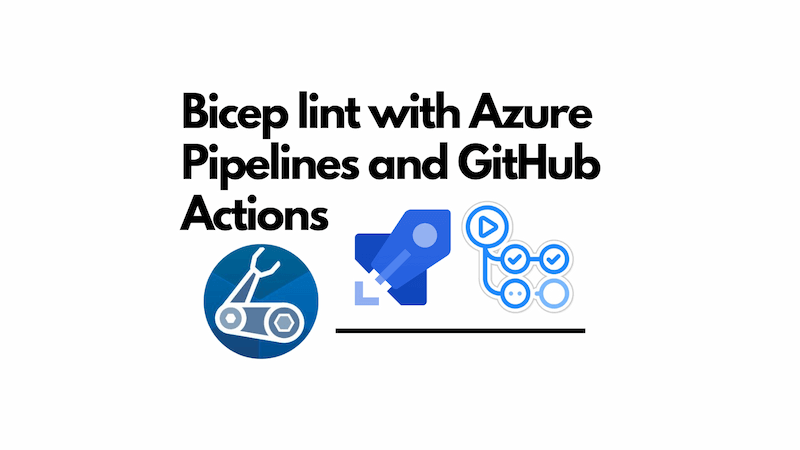
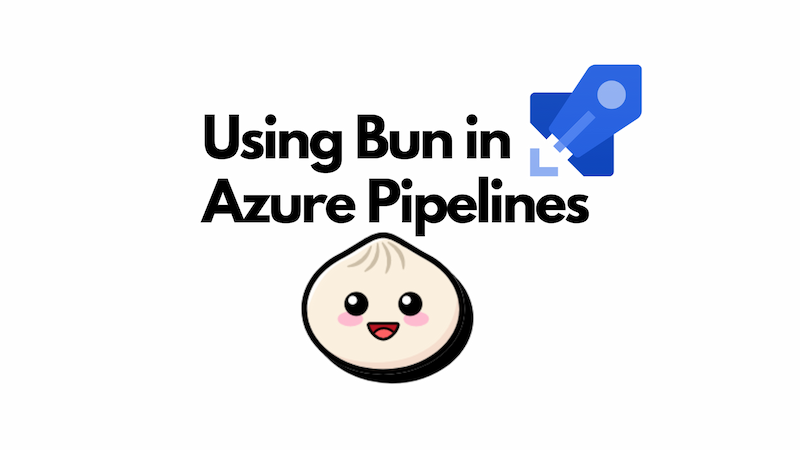
feat: initial post

Changed region(s): [[0.2188, 0.1244, 0.8125, 0.8711]]

diff --git a/blog-website/blog/2024-02-04-using-bun-in-azure-pipelines/index.md b/blog-website/blog/2024-02-04-using-bun-in-azure-pipelines/index.md
@@ -8,15 +8,27 @@ description: Bun is a fast TypeScript / JavaScript runtime which can be used to 
 hide_table_of_contents: false
 ---
 
-Bicep has had linting [since version 0.4.1](https://github.com/Azure/bicep/releases/tag/v0.4.1). It's a great way to ensure that your bicep files conform to best practices. Interestingly, when the linting feature first shipped, there wasn't an explicit lint command as part of the CLI. Instead, you had to run `bicep build` and it would run the linter as part of the build process. This was a little confusing as it was not obvious that the linter was running.
+I'm a keen user of [Bun](https://bun.sh/). Bun is a fast TypeScript / JavaScript runtime which can be used to speed up the TypeScript / JavaScript you have. It's a drop-in replacement for Node.js, and it's compatible with the vast majority of the Node.js ecosystem. (There are still rough edges that have issues.) In this post we'll look at how to use it in Azure Pipelines.
 
-As of [version 0.21.1](https://github.com/Azure/bicep/releases/tag/v0.21.1) there is a dedicated [`bicep lint`](https://learn.microsoft.com/en-us/azure/azure-resource-manager/bicep/linter) command. This is a nice step forwards; it allows you to explicitly lint your your code, rather than have it happen as a side effect of build. And it is useful if you want to run the linter as part of a CI/CD pipeline. What's more the `bicep lint` command is now available in the Azure CLI as well. You can run [`az bicep lint`](https://docs.microsoft.com/en-us/cli/azure/bicep?view=azure-cli-latest#az-bicep-lint) to lint your bicep files.
-
-In this post we'll look at how to run lint Bicep in Azure Pipelines and GitHub Actions, and surface the output in the UI.
-
-![title image reading "Bicep lint with Azure Pipelines and GitHub Actions" with the Bicep logo](title-image.png)
+![title image reading "Using Bun in Azure Pipelines" with the Bun and Azure Pipelines logos](title-image.png)
 
 <!--truncate-->
+
+## How to install Bun
+
+I use Azure Pipelines for much of my day to day work. However, my OSS work is (unsurprisingly) all GitHub oriented. Using Bun in GitHub Actions is straightforward; you just make use of the [Setup Bun GitHub Action](https://github.com/marketplace/actions/setup-bun) to install Bun and you're off to the races. There isn't an equivalent for Azure Pipelines **but that doesn't matter**.
+
+It turns out there's a great variety of [ways to install Bun](https://bun.sh/docs/installation). However the simplest of the lot is to install it via npm, like so:
+
+```bash
+npm install -g bun
+```
+
+This installs the `bun` command globally from the [`bun` package](https://www.npmjs.com/package/bun). You can then use it to run your TypeScript / JavaScript. This is the approach we'll use in Azure Pipelines.
+
+## Using Bun in Azure Pipelines
+
+Since there's already a [dedicated Azure Pipelines task for npm](https://learn.microsoft.com/en-us/azure/devops/pipelines/tasks/reference/npm-v1?view=azure-pipelines), we can use that to install Bun. Here's an example of how to do that:
 
 ```yml
 - task: Npm@1
@@ -25,7 +37,11 @@ In this post we'll look at how to run lint Bicep in Azure Pipelines and GitHub A
     command: 'custom'
     customCommand: 'install -g bun'
     verbose: true
+```
 
+Now we're able to use Bun in our Azure Pipelines. Here's an example of how to use it to install dependencies and run a build:
+
+```yaml
 - bash: bun install
   displayName: 'install'
 
@@ -33,284 +49,6 @@ In this post we'll look at how to run lint Bicep in Azure Pipelines and GitHub A
   displayName: 'build'
 ```
 
-## The general approach
-
-The general approach is the same for both Azure Pipelines and GitHub Actions. One way or another, we'll run the Bicep `lint` command to lint our Bicep files and capture the output. As yet, there is no option to export the results of the lint command as a file. This may come, and [there is a discussion about it](https://github.com/Azure/bicep/issues/11960). However, there is a way to achieve our goal, which came out in discussion with [Anthony Martin](https://github.com/anthony-c-martin) of the Bicep team. We can write the output of the `lint` command to a file like so:
-
-```
-bicep lint main.bicep --diagnostics-format sarif > lint.sarif
-```
-
-This will write the output of the `lint` command to a file called `lint.sarif`. This is a [SARIF](https://sarifweb.azurewebsites.net/) file. SARIF stands for Static Analysis Results Interchange Format. It's a standard for representing the results of static analysis tools. It's a JSON file, easy to parse and has integrations with GitHub Actions / Azure Pipelines. An example SARIF output is below:
-
-```json
-{
-  "$schema": "https://schemastore.azurewebsites.net/schemas/json/sarif-2.1.0-rtm.6.json",
-  "version": "2.1.0",
-  "runs": [
-    {
-      "tool": {
-        "driver": {
-          "name": "bicep"
-        }
-      },
-      "results": [
-        {
-          "ruleId": "no-unused-vars",
-          "message": {
-            "text": "Variable \"unusedVar\" is declared but never used. [https://aka.ms/bicep/linter/no-unused-vars]"
-          },
-          "locations": [
-            {
-              "physicalLocation": {
-                "artifactLocation": {
-                  "uri": "file:///home/runner/work/blog.johnnyreilly.com/blog.johnnyreilly.com/./infra/main.bicep"
-                },
-                "region": {
-                  "startLine": 19,
-                  "charOffset": 5
-                }
-              }
-            }
-          ]
-        }
-      ],
-      "columnKind": "utf16CodeUnits"
-    }
-  ]
-}
-```
-
-In the example above we directly used the `bicep lint` command. An alternative approach is to use the Azure CLI like so:
-
-```
-az bicep lint --file main.bicep --diagnostics-format sarif > lint.sarif
-```
-
-This is a little more verbose, but it does mean that you don't need to install the Bicep CLI on your build agent. You can use the Azure CLI instead; and this is already a first class citizen of Azure Pipelines and GitHub Actions, with dedicated support. (That said, there is a slight issue with this approach at the time of writing, which we'll come to later.)
-
-However we generate it, we can take the SARIF file and use it to surface the results of the linting process in Azure Pipelines and GitHub Actions.
-
-## Linting Bicep in GitHub Actions with the Azure CLI
-
-We'll start off by looking at how to lint Bicep in GitHub Actions with the Azure CLI. But before we do that, we need something to lint. Within your `main.bicep` file you should have something like this:
-
-```bicep
-var unusedVar = 1 // unused variable
-```
-
-As it suggests, this is an unused variable. We're just using this to demonstrate the linting process. And alongside that, we want a [`bicepconfig.json`](https://aka.ms/bicep/config) file that looks like this:
-
-```json
-{
-  "analyzers": {
-    "core": {
-      "rules": {
-        "no-unused-vars": {
-          "level": "warning"
-        }
-      }
-    }
-  }
-}
-```
-
-This explicitly enables the [`no-unused-vars`](https://learn.microsoft.com/en-us/azure/azure-resource-manager/bicep/linter-rule-no-unused-variables) rule, and sets it to `warning` level. This means that the linter will warn us about unused variables, but it won't fail the build. We could set it to `error` level, and then the build would fail if there were any unused variables. We'll come back to this later.
-
-In a GitHub workflow in your repository you should have steps like these:
-
-```yaml
-- name: Lint Bicep
-  uses: azure/CLI@v1
-  with:
-    inlineScript: |
-      az bicep install
-      az bicep lint --file ./infra/main.bicep --diagnostics-format sarif > bicep.sarif
-
-- name: Upload SARIF
-  if: (success() || failure())
-  uses: github/codeql-action/upload-sarif@v3
-  with:
-    category: bicep
-    sarif_file: bicep.sarif
-```
-
-The above:
-
-- Installs Bicep to the Azure CLI
-- Runs the `lint` command and writes the results to a file called `bicep.sarif`
-- Uploads the SARIF file to GitHub
-
-The `upload-sarif` action is provided by GitHub. [It allows surfacing the results of static analysis tools in GitHub](https://docs.github.com/en/code-security/code-scanning/integrating-with-code-scanning/uploading-a-sarif-file-to-github). Doing this will show the results of the linting process in the GitHub UI, and it will also show them in the GitHub Security / Code Scanning UI, like so:
-
-![screenshot of the no-unused-vars rule in GitHub UI](screenshot-github-actions-no-unused-vars.webp)
-
-## Linting Bicep in GitHub Actions with the Bicep CLI
-
-We can also lint Bicep in GitHub Actions with the Bicep CLI. At the time of writing, there's a reason you might want to favour this approach over the Azure CLI approach. I won't drill into it in depth, but at present if `az bicep lint` fails / returns a non-0 exit code then no output is produced. We could make this happen by updating the `bicepconfig.json` to dial up the `no-unused-vars` rule to `error` level, like so:
-
-```json
-{
-  "analyzers": {
-    "core": {
-      "rules": {
-        "no-unused-vars": {
-          "level": "error"
-        }
-      }
-    }
-  }
-}
-```
-
-Now an unused variable will cause the build to fail. But the output of the `lint` command will not be surfaced in the GitHub UI. This is because the Azure CLI is not surfacing the output of the `lint` command when it fails.
-
-The issue with the Azure CLI will hopefully be remedied; [you can track that here](https://github.com/Azure/azure-cli/issues/28259). For now you can use the Bicep CLI directly, where this isn't an issue. We'll do that now.
-
-I'm basing this approach on Anthony Martin's example of [Bicep linting with GitHub Actions](https://github.com/anthony-c-martin/bicep-on-k8s/blob/e6dfa61fe7eae6fd6b148670f940041f3e294b20/.github/workflows/ci.yml#L36-L50):
-
-```yml
-- name: Setup Bicep
-  uses: anthony-c-martin/setup-bicep@v0.3
-
-- name: Lint Bicep
-  run: |
-    bicep lint ./infra/main.bicep --diagnostics-format sarif > bicep.sarif
-
-- name: Upload SARIF
-  if: always()
-  uses: github/codeql-action/upload-sarif@v3
-  with:
-    category: bicep
-    sarif_file: bicep.sarif
-```
-
-The above does the same as the Azure CLI approach, but it uses the Bicep CLI directly. The [`setup-bicep` action](https://github.com/marketplace/actions/setup-bicep) is provided by Anthony Martin and installs the Bicep CLI on your build agent.
-
-As I say, right now you may want to favour this approach over the Azure CLI approach to cover both surfacing warnings and errors. But hopefully that will change soon.
-
-## Linting Bicep in Azure Pipelines with the Azure CLI
-
-We've now seen how to lint Bicep in GitHub Actions with both the Azure CLI and the Bicep CLI. We can do the same in Azure Pipelines; but only the Azure CLI approach (as I'm not sure if there's a `setup-bicep` equivalent for Azure Pipelines).
-
-How you want to surface the results in Azure Pipelines is up to you. You could surface into the "Scans" portion of Azure Pipelines UI or into "Tests". I'll show you how to do both.
-
-### Surface the results in Scans
-
-To surface the results in the scans part of Azure Pipelines you need to publish the SARIF file as a build artifact. You can do that like so:
-
-```yml
-jobs:
-  - job: LintInfra
-    displayName: Lint Infra
-    dependsOn: []
-    pool:
-      vmImage: 'ubuntu-latest'
-    steps:
-      - task: AzureCLI@2
-        displayName: Lint main.bicep
-        inputs:
-          azureSubscription: service-connection-with-access-to-registry # you may not need this
-          scriptType: bash
-          scriptLocation: inlineScript
-          inlineScript: |
-            az bicep install
-            az bicep lint --file infra/main.bicep --diagnostics-format sarif > $(System.DefaultWorkingDirectory)/bicep.sarif
-
-      - task: PublishBuildArtifacts@1
-        condition: always()
-        inputs:
-          pathToPublish: $(System.DefaultWorkingDirectory)/bicep.sarif
-          artifactName: CodeAnalysisLogs # required to show up in the scans tab
-```
-
-The above is essentially the same as the GitHub Actions example, but it uses the Azure CLI instead of the Bicep CLI. The `PublishBuildArtifacts` task is provided by Azure Pipelines. It allows you to publish build artifacts, which will show up in the Scans part of Azure Pipelines. You can see the results of the linting process in Scans, like so:
-
-![screenshot of the no-unused-vars rule in Azure Pipelines scans](screenshot-azure-pipelines-scans-no-unused-vars.webp)
-
-You'll notice that the path above has a `file:///home/vsts/work/1/s` prefix before the bicep path report of `infra/main.bicep`. This is unfortunate and breaks "clickability". You cannot click on this and be taken to the file. It's possible to remedy this behaviour by doing a little find and replace magic on the SARIF file. You don't need to do this, but it does add to the developer experience.
-
-Below is the same portion of the Azure Pipelines yaml file but with some additional bash that will use `sed` to replace all instances of the `file:///home/vsts/work/1/s` prefix with an empty string:
-
-```yml
-jobs:
-  - job: LintInfra
-    displayName: Lint Infra
-    dependsOn: []
-    pool:
-      vmImage: 'ubuntu-latest'
-    steps:
-      - task: AzureCLI@2
-        displayName: Lint main.bicep
-        inputs:
-          azureSubscription: service-connection-with-access-to-registry # you may not need this
-          scriptType: bash
-          scriptLocation: inlineScript
-          inlineScript: |
-            az bicep install
-            az bicep lint --file infra/main.bicep --diagnostics-format sarif > $(System.DefaultWorkingDirectory)/bicep.sarif
-
-            STRING_TO_REPLACE='file://$(Build.SourcesDirectory)/'
-            echo "##[group]Bicep linting results before $STRING_TO_REPLACE replace:"
-            cat $(System.DefaultWorkingDirectory)/bicep.sarif
-            echo "##[endgroup]"
-
-            sed -i "s|$STRING_TO_REPLACE||g" $(System.DefaultWorkingDirectory)/bicep.sarif
-
-            echo "##[group]Bicep linting results after $STRING_TO_REPLACE replace:"
-            cat $(System.DefaultWorkingDirectory)/bicep.sarif
-            echo "##[endgroup]"
-
-      - task: PublishBuildArtifacts@1
-        condition: always()
-        inputs:
-          pathToPublish: $(System.DefaultWorkingDirectory)/bicep.sarif
-          artifactName: CodeAnalysisLogs # required to show up in the scans tab
-```
-
-And hey presto! Clickability restored.
-
-### Surface the results in Tests
-
-You can also surface the results in the tests part of Azure Pipelines. To do that we're going to borrow a [suggestion from Anthony Martin](https://github.com/Azure/bicep/issues/11960#issuecomment-1737226501) and use the [`sarif-junit`](https://www.npmjs.com/package/sarif-junit) package. This package allows us to convert a SARIF file to a JUnit file. JUnit is a standard for representing test results and can be used with the `PublishTestResults` task.
-
-```yml
-jobs:
-  - job: LintInfra
-    displayName: Lint Infra
-    dependsOn: []
-    pool:
-      vmImage: 'ubuntu-latest'
-    steps:
-      - task: NodeTool@0
-        displayName: 'Install Node.js'
-        inputs:
-          versionSpec: '18.x'
-
-      - task: AzureCLI@2
-        displayName: Lint main.bicep
-        inputs:
-          azureSubscription: service-connection-with-access-to-registry # you may not need this
-          scriptType: bash
-          scriptLocation: inlineScript
-          inlineScript: |
-            az bicep install
-            az bicep lint --file infra/main.bicep --diagnostics-format sarif > $(System.DefaultWorkingDirectory)/bicep.sarif
-            npx -y sarif-junit -i $(System.DefaultWorkingDirectory)/bicep.sarif -o $(System.DefaultWorkingDirectory)/bicep.xml
-
-      - task: PublishTestResults@2
-        condition: always()
-        inputs:
-          testResultsFormat: 'JUnit'
-          testResultsFiles: '$(System.DefaultWorkingDirectory)/bicep.xml'
-```
-
-So the above is the same approach again but requires Node.js to be installed, and the results end up in the Tests part of Azure Pipelines. You can see the results of the linting process in Tests, like so:
-
-![screenshot of the no-unused-vars rule in Azure Pipelines tests](screenshot-azure-pipelines-tests-no-unused-vars.webp)
-
 ## Summary
 
-That's it! We've seen how to lint Bicep in Azure Pipelines and GitHub Actions. We've seen how to surface the results in the scans and tests parts of Azure Pipelines and in GitHub. We've seen how to do it with the Azure CLI and the Bicep CLI. And we've seen how to do it with warnings and errors. Hopefully this will help you to ensure that your Bicep files conform to best practices.
-
-Many thanks to Anthony Martin for his help, which laid the groundwork for much of what we explored in this post.
+We're able to use Bun in Azure Pipelines by installing it via npm and then using it as we would Node.js. This is a great way to speed up your TypeScript / JavaScript builds. I hope you find it useful!
